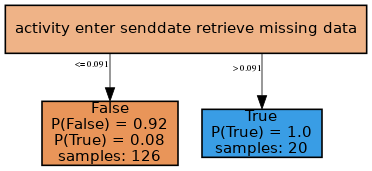
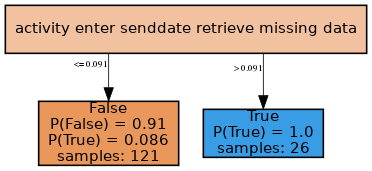
upload 210129

diff --git a/test_hoeffding.py b/test_hoeffding.py
@@ -90,7 +90,7 @@ for x,y in dataset:
         casecount +=1
 
         # Grace period to collect feature matrix
-        if casecount <100:
+        if casecount <200:
             case_length = len(case_dict[caseid])
             for prefix in range(1, case_length):
                 if 'prefix_%s'%(prefix+1) not in list(feature_matrix.keys()):
@@ -105,8 +105,8 @@ for x,y in dataset:
         else:
             # Modify encoded attributes of cases with feature matrix
             case_length = len(case_dict[caseid])
-            if case_length >10:
-                case_length =10
+            if case_length >8:
+                case_length =8
             y = outcome
             for prefix in range(1, case_length):
                 case_dict[caseid][prefix].update_truelabel(y)
@@ -131,12 +131,16 @@ for x,y in dataset:
                         case_dict[cases][prefix].update_prediction((training_models['prefix_%s'%(prefix+1)][2], y_pred))
             resultdict[caseid] = case_dict.pop(caseid)
 
-    if casecount > 200 and rowcounter%1000 == 0:
-        for prefix in training_models.keys():
-            model = training_models[prefix][0]
-            if prefix not in list(acc_dict.keys()):
-                acc_dict[prefix]=[training_models[prefix][1].get()]
-            else:
-                acc_dict[prefix].append(training_models[prefix][1].get())
-            outputfile = './bpic15/%s/%s.png'%(prefix, round(rowcounter*100/totallength,2))
-            utils.save_graph_as_png(model.draw(),outputfile)
+            for prefix in training_models.keys():
+                if prefix not in list(acc_dict.keys()):
+                    acc_dict[prefix]=[training_models[prefix][1].get()]
+                else:
+                    acc_dict[prefix].append(training_models[prefix][1].get())
+
+    # if casecount > 200 and rowcounter%1000 == 0:
+    #     for prefix in training_models.keys():
+    #         model = training_models[prefix][0]
+    #         outputfile = './bpic15/%s/%s.png'%(prefix, round(rowcounter*100/totallength,2))
+    #         utils.save_graph_as_png(model.draw(),outputfile)
+
+print(acc_dict)
